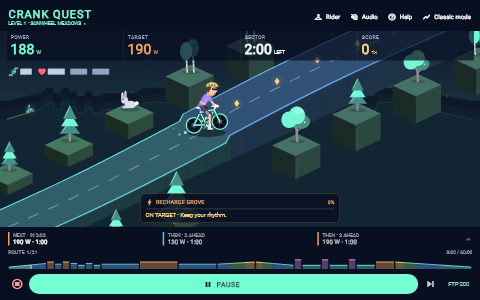
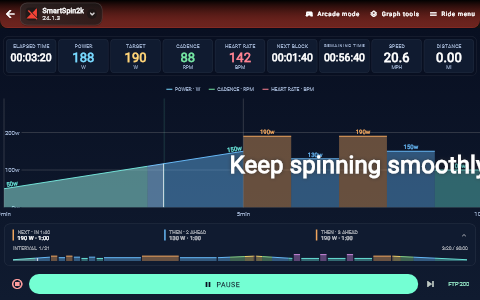
Refactor ShifterScreen and gauges for improved clarity and functionality

diff --git a/lib/widgets/stepper_travel_gauge.dart b/lib/widgets/stepper_travel_gauge.dart
@@ -54,11 +54,43 @@ class TargetInclineGauge extends StatelessWidget {
         : null;
     return _RoundGauge(
       progress: known ? ((value + 30) / 60).clamp(0.0, 1.0) : null,
-      label: 'TARGET INCLINE',
-      semanticLabel: 'Target incline',
+      label: 'INCLINE',
+      semanticLabel: 'Incline',
       semanticValue: formatted == null ? 'Unavailable' : '$formatted percent',
       centerText: formatted == null ? '—' : '$formatted%',
       keyPrefix: 'target_incline_gauge',
+    );
+  }
+}
+
+/// Shows measured power relative to the ERG target, with zero straight up.
+class TargetPowerGauge extends StatelessWidget {
+  const TargetPowerGauge({super.key, required this.targetWatts, this.watts});
+
+  final double targetWatts;
+  final double? watts;
+
+  @override
+  Widget build(BuildContext context) {
+    final delta = watts == null ? null : watts! - targetWatts;
+    final known = delta != null && delta.isFinite;
+    final rounded = known ? delta.round() : null;
+    final formatted = rounded == null
+        ? null
+        : '${rounded > 0 ? '+' : ''}$rounded W';
+    final target = '${targetWatts.toStringAsFixed(0)} W target';
+    return _RoundGauge(
+      progress: known ? ((delta + 20) / 40).clamp(0.0, 1.0) : null,
+      label: 'TARGET',
+      semanticLabel: 'Target power',
+      semanticValue: formatted == null
+          ? 'Power delta unavailable, $target'
+          : '$formatted from target, $target',
+      centerText: formatted ?? '—',
+      subtitle: target,
+      minimumLabel: '-20 W',
+      maximumLabel: '+20 W',
+      keyPrefix: 'target_power_gauge',
     );
   }
 }
@@ -71,6 +103,9 @@ class _RoundGauge extends StatelessWidget {
     required this.semanticValue,
     required this.keyPrefix,
     this.centerText,
+    this.subtitle,
+    this.minimumLabel,
+    this.maximumLabel,
     this.warnNearLimit = false,
   });
 
@@ -80,6 +115,9 @@ class _RoundGauge extends StatelessWidget {
   final String semanticValue;
   final String keyPrefix;
   final String? centerText;
+  final String? subtitle;
+  final String? minimumLabel;
+  final String? maximumLabel;
   final bool warnNearLimit;
 
   static const _dialSize = 100.0;
@@ -134,6 +172,7 @@ class _RoundGauge extends StatelessWidget {
                       Center(
                         child: SizedBox(
                           width: 64,
+                          height: subtitle == null ? null : 26,
                           child: FittedBox(
                             fit: BoxFit.scaleDown,
                             child: Text(
@@ -148,10 +187,51 @@ class _RoundGauge extends StatelessWidget {
                           ),
                         ),
                       ),
+                    if (subtitle != null)
+                      Positioned(
+                        top: 62,
+                        left: 12,
+                        right: 12,
+                        child: FittedBox(
+                          fit: BoxFit.scaleDown,
+                          child: Text(
+                            subtitle!,
+                            style: const TextStyle(
+                              color: WorkoutVisuals.muted,
+                              fontSize: 10,
+                              fontWeight: FontWeight.w600,
+                            ),
+                          ),
+                        ),
+                      ),
                   ],
                 ),
               ),
             ),
+            if (minimumLabel != null && maximumLabel != null) ...[
+              const SizedBox(height: 4),
+              SizedBox(
+                width: _dialSize,
+                child: Row(
+                  mainAxisAlignment: MainAxisAlignment.spaceBetween,
+                  children: [
+                    for (final text in [minimumLabel!, maximumLabel!])
+                      Flexible(
+                        child: FittedBox(
+                          fit: BoxFit.scaleDown,
+                          child: Text(
+                            text,
+                            style: const TextStyle(
+                              color: WorkoutVisuals.muted,
+                              fontSize: 10,
+                            ),
+                          ),
+                        ),
+                      ),
+                  ],
+                ),
+              ),
+            ],
           ],
         ),
       ),

diff --git a/test/shifter_target_display_test.dart b/test/shifter_target_display_test.dart
@@ -141,13 +141,25 @@ void main() {
   ) async {
     data.FTMSmode = FTMSOpCodes.SET_TARGET_POWER;
     data.simulatedTargetWatts = '250';
+    data.lastFtmsUpdate = DateTime.now();
+    data.ftmsData.watts = 258;
     await host(tester);
 
-    expect(find.text('TARGET POWER'), findsOneWidget);
-    expect(find.text('250'), findsOneWidget);
-    expect(find.text('TARGET INCLINE'), findsNothing);
+    expect(find.text('TARGET'), findsOneWidget);
+    expect(find.text('250 W target'), findsOneWidget);
+    expect(find.text('+8 W'), findsOneWidget);
+    expect(find.byType(TargetPowerGauge), findsOneWidget);
+    expect(find.text('-20 W'), findsOneWidget);
+    expect(find.text('+20 W'), findsOneWidget);
+    expect(find.text('INCLINE'), findsNothing);
     expect(find.text('4.5%'), findsNothing);
     expect(find.text('999'), findsNothing);
+    data.ftmsData.watts = 240;
+    data.notifyTargetChanged();
+    await tester.pump();
+    await tester.pump();
+    expect(find.text('-10 W'), findsOneWidget);
+    expect(find.text('250 W target'), findsOneWidget);
     await tester.pumpWidget(const SizedBox());
   });
 
@@ -158,14 +170,16 @@ void main() {
     data.simulatedTargetWatts = '0';
     await host(tester);
 
-    expect(find.text('TARGET INCLINE'), findsOneWidget);
+    expect(find.text('INCLINE'), findsOneWidget);
     expect(find.text('4.5%'), findsOneWidget);
     expect(find.byType(TargetInclineGauge), findsOneWidget);
     expect(
-      tester.widget<TargetInclineGauge>(find.byType(TargetInclineGauge)).incline,
+      tester
+          .widget<TargetInclineGauge>(find.byType(TargetInclineGauge))
+          .incline,
       4.5,
     );
-    expect(find.text('TARGET POWER'), findsNothing);
+    expect(find.text('TARGET'), findsNothing);
     await tester.pumpWidget(const SizedBox());
   });
 
@@ -176,9 +190,9 @@ void main() {
     data.simulatedTargetWatts = '250';
     await host(tester);
 
-    expect(find.text('TARGET INCLINE'), findsOneWidget);
+    expect(find.text('INCLINE'), findsOneWidget);
     expect(find.text('4.5%'), findsOneWidget);
-    expect(find.text('TARGET POWER'), findsNothing);
+    expect(find.text('TARGET'), findsNothing);
     data.customCharacteristic.firstWhere(
       (c) => c['vName'] == inclineVname,
     )['value'] = '-250';
@@ -187,7 +201,9 @@ void main() {
     await tester.pump();
     expect(find.text('-2.5%'), findsOneWidget);
     expect(
-      tester.widget<TargetInclineGauge>(find.byType(TargetInclineGauge)).incline,
+      tester
+          .widget<TargetInclineGauge>(find.byType(TargetInclineGauge))
+          .incline,
       -2.5,
     );
     await tester.pumpWidget(const SizedBox());
@@ -199,32 +215,32 @@ void main() {
     data.FTMSmode = FTMSOpCodes.SET_TARGET_POWER;
     data.simulatedTargetWatts = '250';
     await host(tester);
-    expect(find.text('TARGET POWER'), findsOneWidget);
-    expect(find.text('TARGET INCLINE'), findsNothing);
+    expect(find.text('TARGET'), findsOneWidget);
+    expect(find.text('INCLINE'), findsNothing);
 
     data.FTMSmode = 0;
     data.simulatedTargetWatts = '250';
     data.notifyTargetChanged();
     await tester.pump();
     await tester.pump();
-    expect(find.text('TARGET INCLINE'), findsOneWidget);
-    expect(find.text('TARGET POWER'), findsNothing);
+    expect(find.text('INCLINE'), findsOneWidget);
+    expect(find.text('TARGET'), findsNothing);
 
     data.FTMSmode = FTMSOpCodes.SET_TARGET_POWER;
     data.simulatedTargetWatts = '0';
     data.notifyTargetChanged();
     await tester.pump();
     await tester.pump();
-    expect(find.text('TARGET INCLINE'), findsOneWidget);
-    expect(find.text('TARGET POWER'), findsNothing);
+    expect(find.text('INCLINE'), findsOneWidget);
+    expect(find.text('TARGET'), findsNothing);
 
     data.simulatedTargetWatts = '300';
     data.notifyTargetChanged();
     await tester.pump();
     await tester.pump();
-    expect(find.text('TARGET POWER'), findsOneWidget);
-    expect(find.text('300'), findsOneWidget);
-    expect(find.text('TARGET INCLINE'), findsNothing);
+    expect(find.text('TARGET'), findsOneWidget);
+    expect(find.text('300 W target'), findsOneWidget);
+    expect(find.text('INCLINE'), findsNothing);
     await tester.pumpWidget(const SizedBox());
   });
 }

diff --git a/tool/generate_device_previews_test.dart b/tool/generate_device_previews_test.dart
@@ -16,9 +16,7 @@ import 'package:ss2kconfigapp/screens/settings_category_screen.dart';
 import 'package:ss2kconfigapp/widgets/setting_tile.dart';
 import 'package:ss2kconfigapp/screens/shifter_screen.dart';
 import 'package:ss2kconfigapp/screens/main_device_screen.dart';
-import 'package:ss2kconfigapp/utils/workout/arcade/arcade_workout_view.dart';
-import 'package:ss2kconfigapp/utils/workout/arcade/arcade_session.dart';
-import 'package:ss2kconfigapp/utils/workout/arcade/arcade_story.dart';
+import 'package:ss2kconfigapp/screens/workout_screen.dart';
 import 'package:ss2kconfigapp/widgets/device_preview_tile.dart';
 import 'package:ss2kconfigapp/utils/workout/workout_storage.dart';
 import 'package:ss2kconfigapp/utils/constants.dart';
@@ -210,7 +208,9 @@ void main() {
     );
     final content = File('assets/Anthonys_Mix.zwo').readAsStringSync();
     SharedPreferences.setMockInitialValues({
+      'shifter_shift_sound_enabled': false,
       'workout_tts_enabled': false,
+      'workout_arcade_mode': false,
       'workout_arcade_music': false,
       'workout_arcade_effects': false,
       'workout_arcade_last_story': 0,
@@ -218,8 +218,9 @@ void main() {
     });
     await WorkoutStorage.saveWorkoutState(
       workoutContent: content,
-      progressPosition: 0.05,
-      workoutProgressTime: 180,
+      // Capture between coaching messages so the classic graph stays visible.
+      progressPosition: 200 / 3600,
+      workoutProgressTime: 200,
       skippedTime: 0,
       isPlaying: false,
     );
@@ -229,18 +230,6 @@ void main() {
     _seedPreviewData(data);
     final controller = WorkoutController(data, device);
     await controller.restoreSavedWorkoutState();
-    final session = ArcadeSession()
-      ..effectsEnabled = false
-      ..stageOpening(ArcadeStory(0));
-    session.update(
-      segments: controller.segments,
-      seconds: 180,
-      playing: true,
-      watts: 188,
-      target: 190,
-      freshSignal: true,
-    );
-    session.restoreStoryPreference(0);
     controller.isPlaying = true; // Fixed frame; never start the workout clock.
     addTearDown(() async {
       controller.isPlaying = false;
@@ -265,16 +254,7 @@ void main() {
       'shifter': () => ShifterScreen(device: device),
       'settings': () => SettingsScreen(device: device),
       'power-table': () => PowerTableScreen(device: device),
-      'workout': () => Scaffold(
-        body: ArcadeWorkoutView(
-          controller: controller,
-          deviceData: data,
-          session: session,
-          hasDeviceHeader: true,
-          onStop: () {},
-          onExit: () {},
-        ),
-      ),
+      'workout': () => WorkoutScreen(device: device),
     };
     for (final entry in screens.entries) {
       if (entry.key == 'workout') {
@@ -286,7 +266,7 @@ void main() {
           speed: 21,
           mode: 2,
         );
-        controller.currentSegmentTimeRemaining = 120;
+        controller.currentSegmentTimeRemaining = 100;
         controller.isPlaying = true;
       }
       await tester.pumpWidget(_captureApp(theme: theme, screen: entry.value()));

diff --git a/lib/screens/shifter_screen.dart b/lib/screens/shifter_screen.dart
@@ -709,12 +709,9 @@ class _ShifterScreenState extends State<ShifterScreen> {
             children: [
               Expanded(
                 child: showTargetPower
-                    ? _reading(
-                        'TARGET POWER',
-                        target,
-                        'W',
-                        WorkoutVisuals.gold,
-                        compact: true,
+                    ? TargetPowerGauge(
+                        targetWatts: double.parse(target),
+                        watts: hasTelemetry ? ftms.watts.toDouble() : null,
                       )
                     : TargetInclineGauge(incline: incline),
               ),
